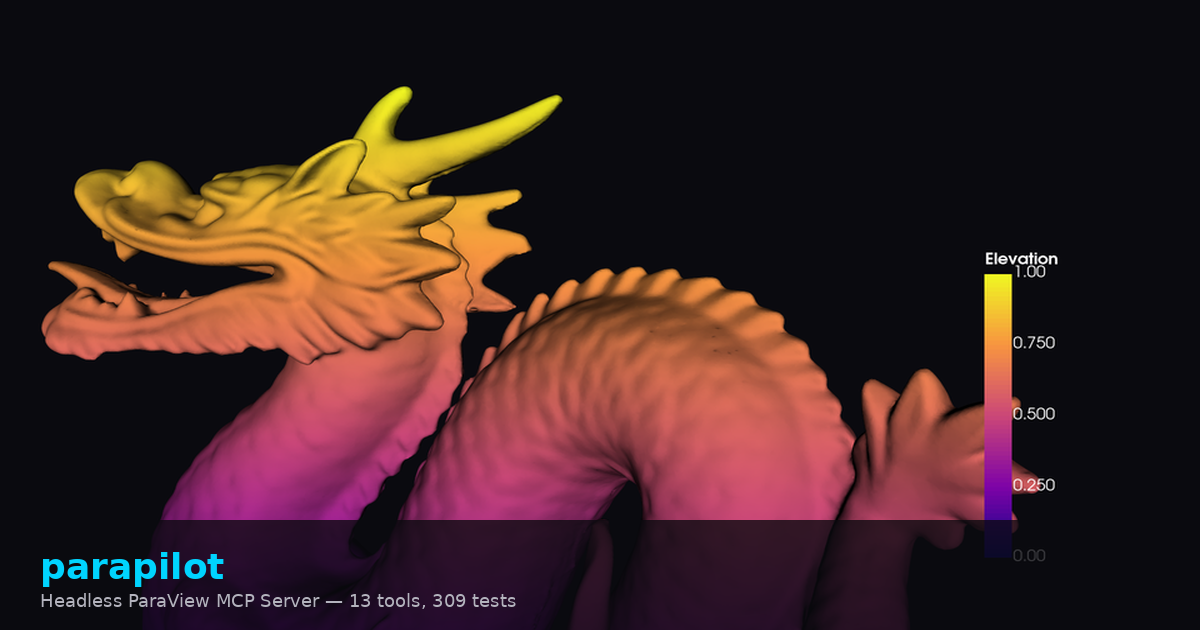
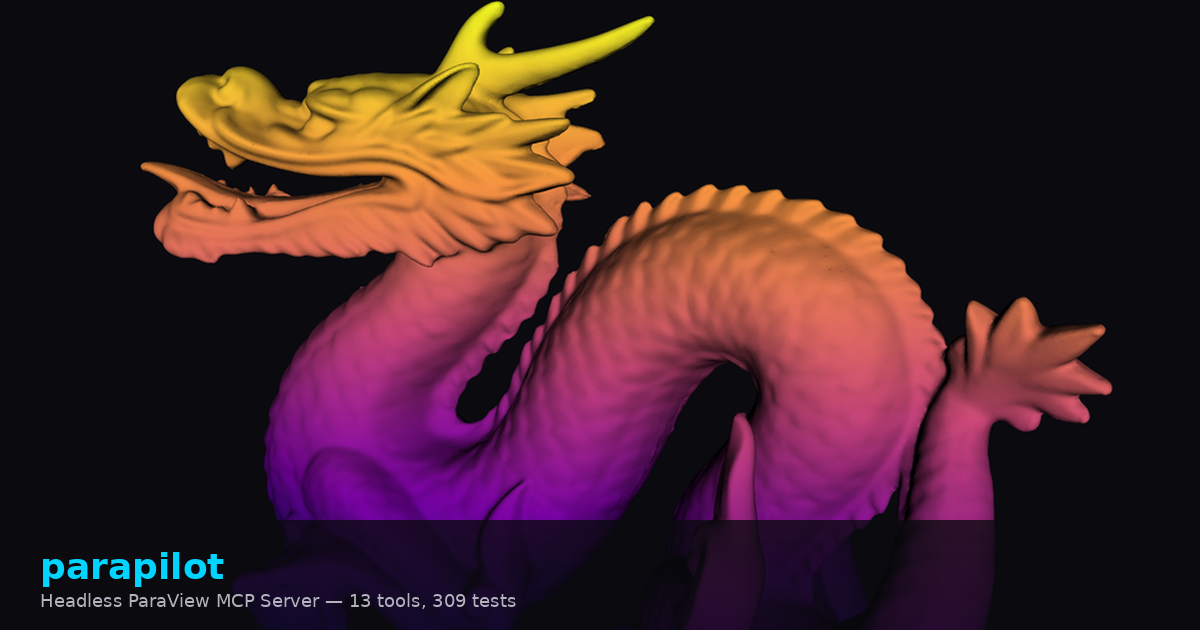
chore: polish hero dragon render and fix dataset count
- Remove scalar bar from featured dragon (cleaner hero image)
- Wider camera angle to show more dragon body
- Regenerate OG image with updated dragon
- Fix Showcase description: 7 datasets → 6 datasets (head.vti used twice)

diff --git a/scripts/generate_showcase.py b/scripts/generate_showcase.py
@@ -55,11 +55,11 @@ RENDERS: dict[str, str] = {
         elev.SetHighPoint(0, b[3], 0)
         elev.Update()
 
-        cam = CameraConfig(position=(0.15, 0.18, 0.15), focal_point=(0, 0.15, -0.04), view_up=(0, 1, 0))
+        cam = CameraConfig(position=(0.12, 0.22, 0.20), focal_point=(-0.02, 0.12, -0.04), view_up=(0, 1, 0))
         cfg = RenderConfig(
             width=1920, height=1080, background=(0.04, 0.04, 0.06),
             colormap='plasma', array_name='Elevation',
-            show_scalar_bar=True, scalar_bar_title='Elevation',
+            show_scalar_bar=False,
         )
         PNG = render_to_png(elev.GetOutput(), cfg, cam)
     """),
